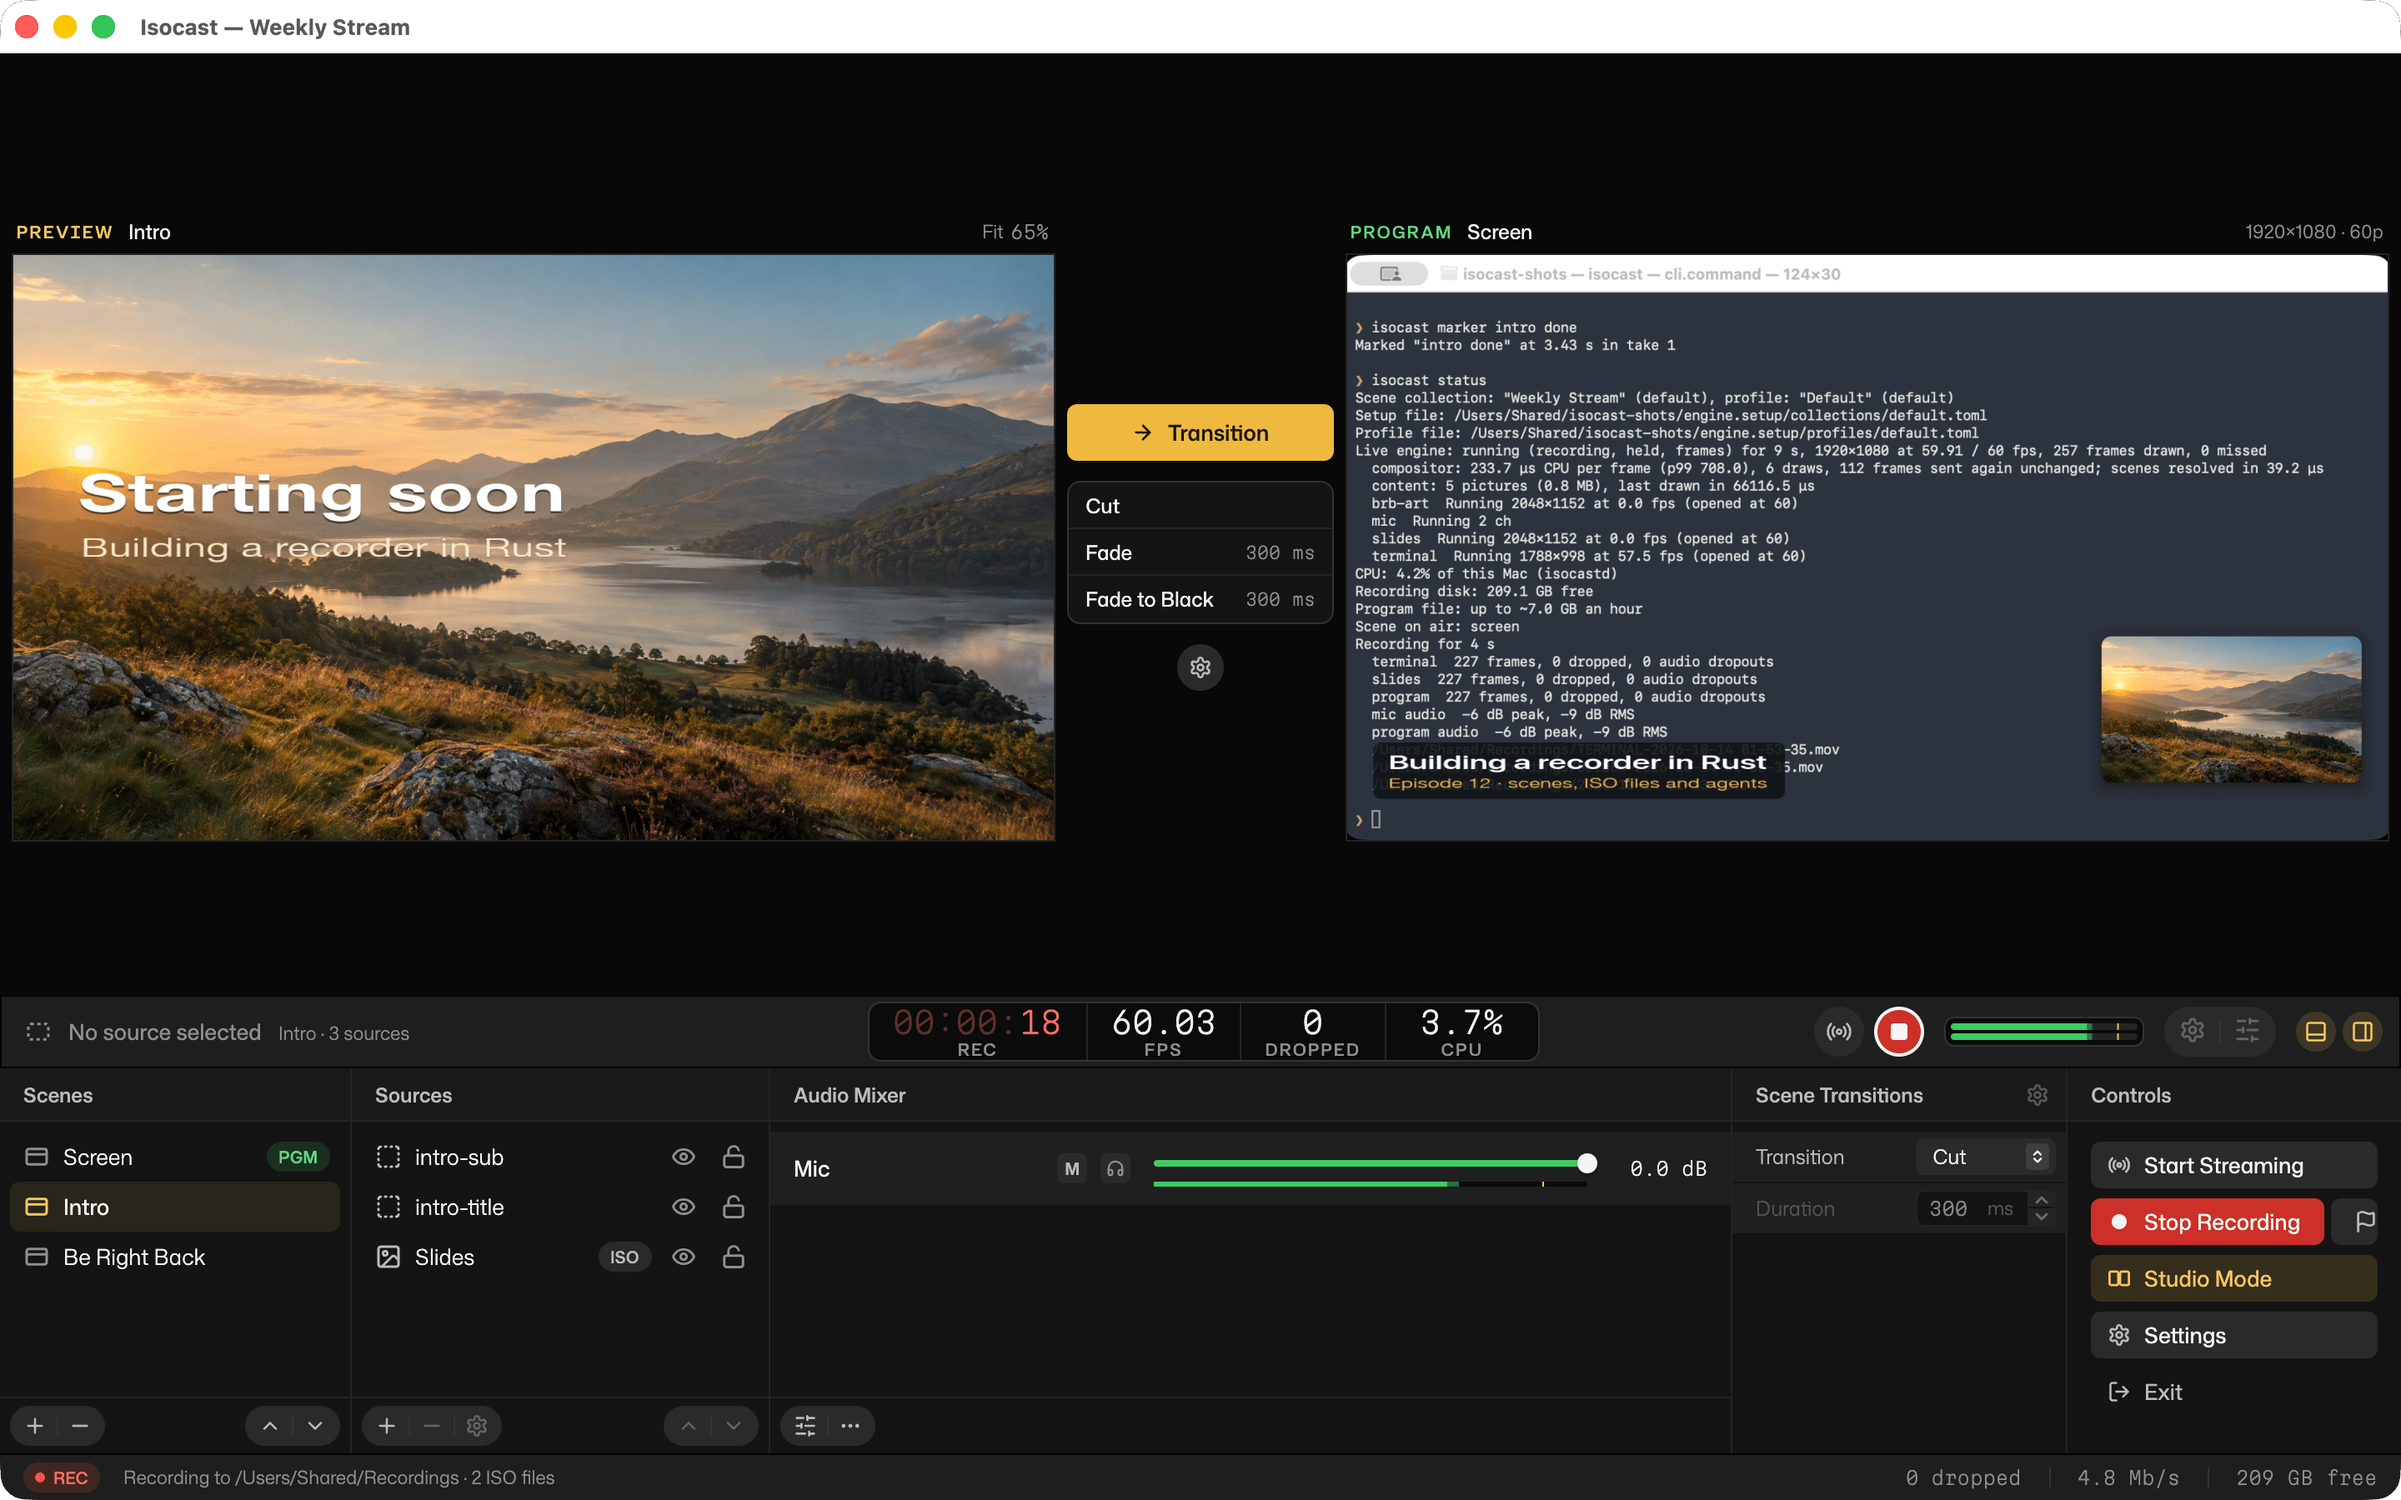
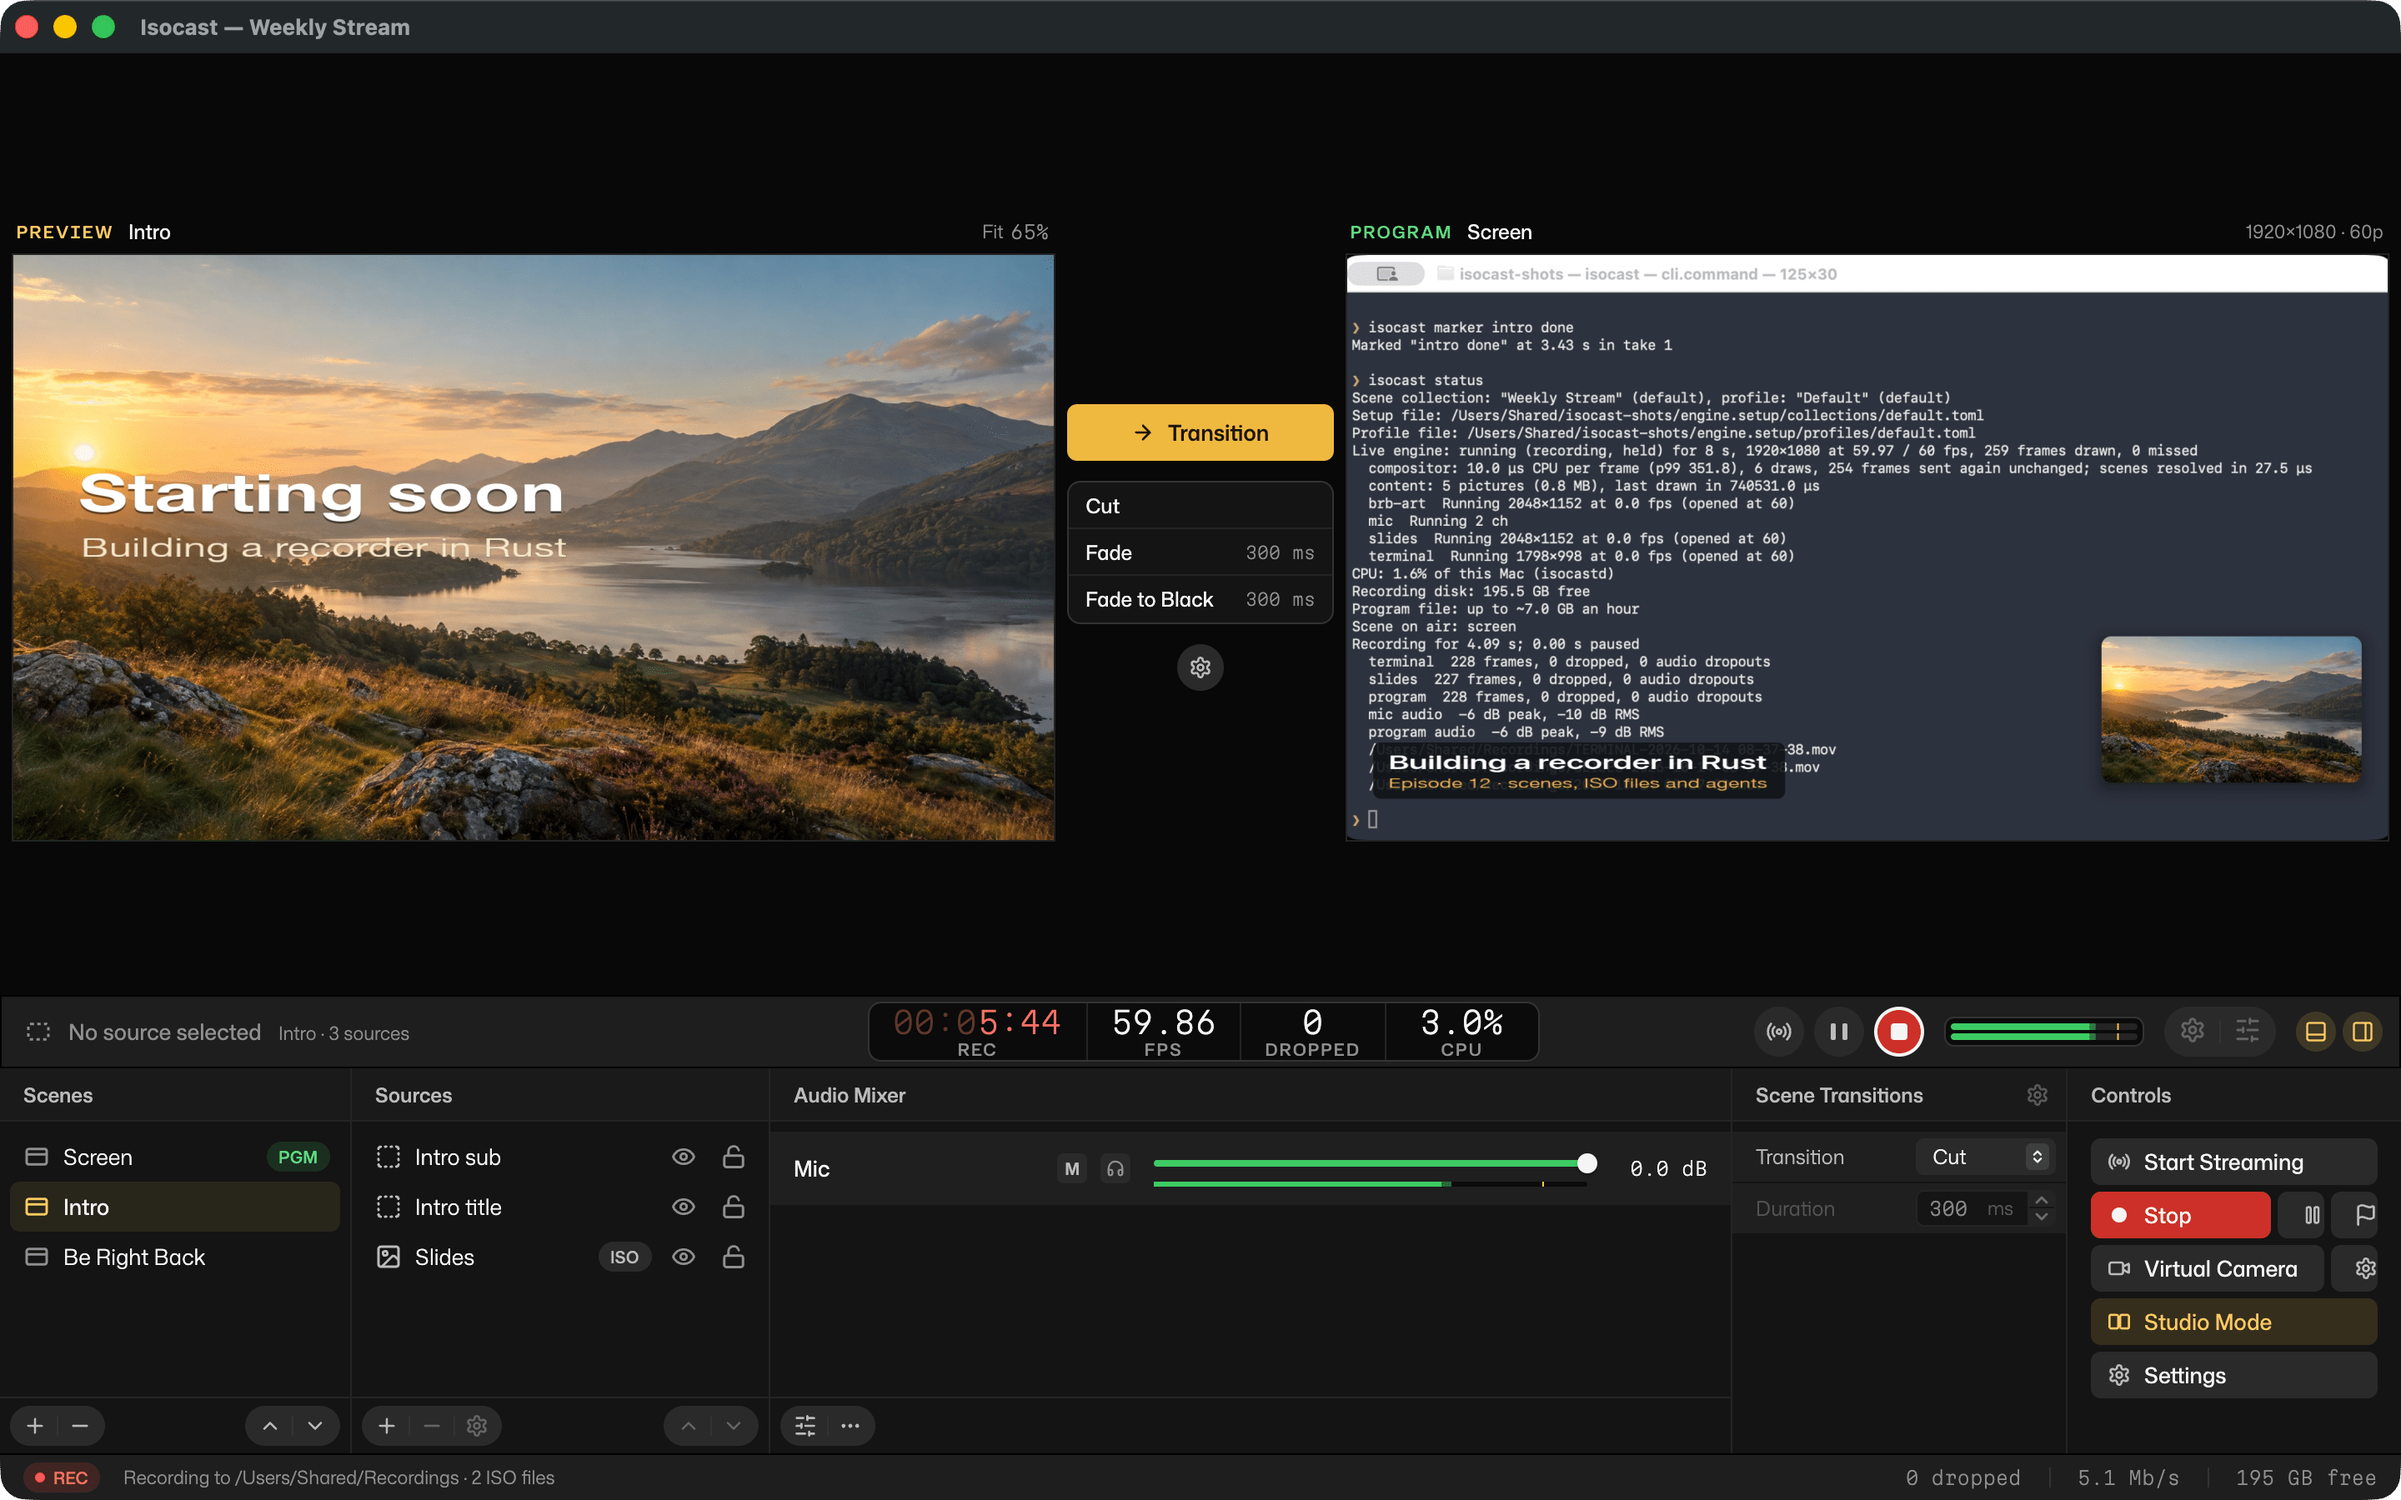
README: photos of the app with Pause and Virtual Camera

diff --git a/README.md b/README.md
@@ -2,7 +2,7 @@
 
 **Record and stream your Mac like OBS, with every source saved as its own file, at a fraction of the CPU.**
 
-![Isocast recording: the Screen scene shows a terminal with a picture-in-picture photo and a title, above the recording timer, frame rate, dropped frames and CPU, with scenes, sources, the audio mixer and controls below](docs/images/app.png)
+![Isocast recording: the Screen scene shows a terminal with a picture-in-picture photo and a title, above the recording timer, frame rate, dropped frames and CPU, with scenes, sources, the audio mixer and the controls (Stop, Pause, Virtual Camera, Studio Mode) below](docs/images/app.png)
 
 ## What it does
 
@@ -13,6 +13,9 @@ Isocast imports them.
 
 **Studio Mode.** Line up the next scene in the preview while the program
 stays on air, then take it live with a cut, a fade or another transition.
+Next to Record, **Pause** holds a take and picks it up again in the same
+file, and **Virtual Camera** sends the program to video-call apps (still in
+testing).
 
 ![Studio Mode: the Starting soon intro in preview on the left, the live program on the right, and the Transition button between them](docs/images/studio.png)
 

diff --git a/docs/notes.md b/docs/notes.md
@@ -1448,6 +1448,12 @@ each section. Delete entries that stop being true.
   switches to precise deadlines only when its wakes are measurably being
   stretched. Performance against OBS is a goal; robustness for headless
   launches shouldn't cost every user CPU.
+  Follow-up (same night): recording doesn't wait for clocks to qualify;
+  instead escalation is process-wide, so once any clock has seen stretched
+  sleeps, clocks created later (ISOs at record start, sources, the virtual
+  camera) start on precise deadlines. Normal-context CPU of the adaptive
+  build (+1.4..3.7% medians, overlapping ranges, all clocks ordinary) is
+  accepted as within noise.
 
 - 2026-10-14: **A.6 hardening supersedes lifetime/unbounded pinning.**
   `stream_key_set` pins after the Keychain write succeeds. Pins are keyed by

diff --git a/docs/coming.md b/docs/coming.md
@@ -16,7 +16,6 @@ use it. Start and stop it from the app, the CLI or an agent.
 
 ## Also planned
 
-- Pause and resume a recording without starting a new file.
 - A replay buffer: keep the last seconds in memory and save them on
   command.
 - Projectors and a multiview grid.
